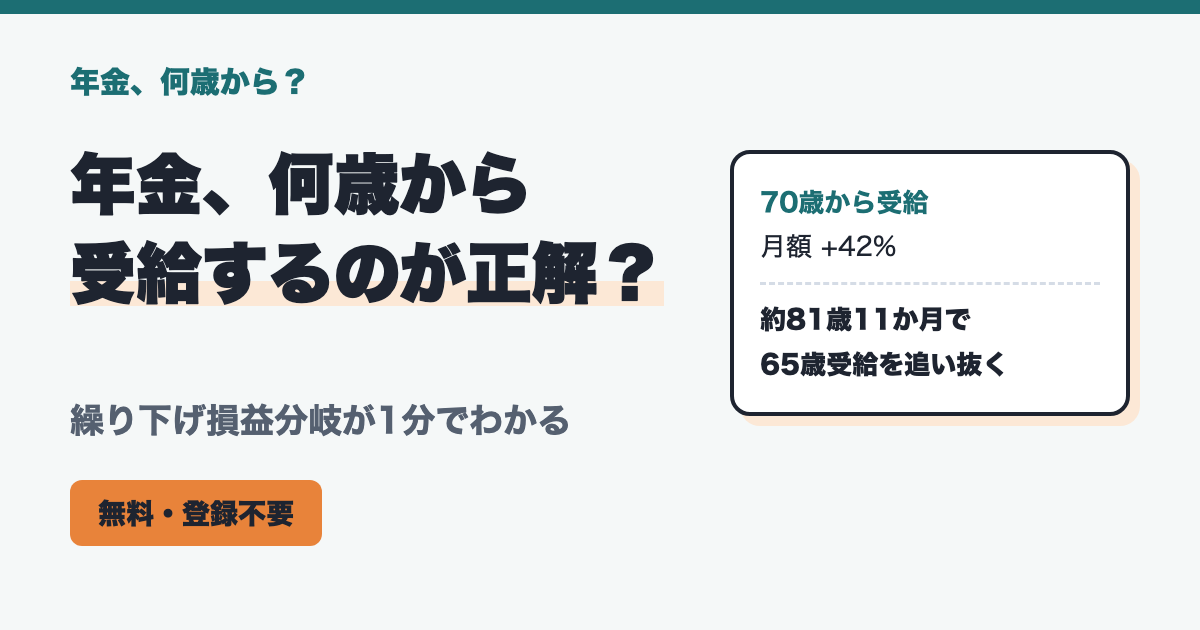
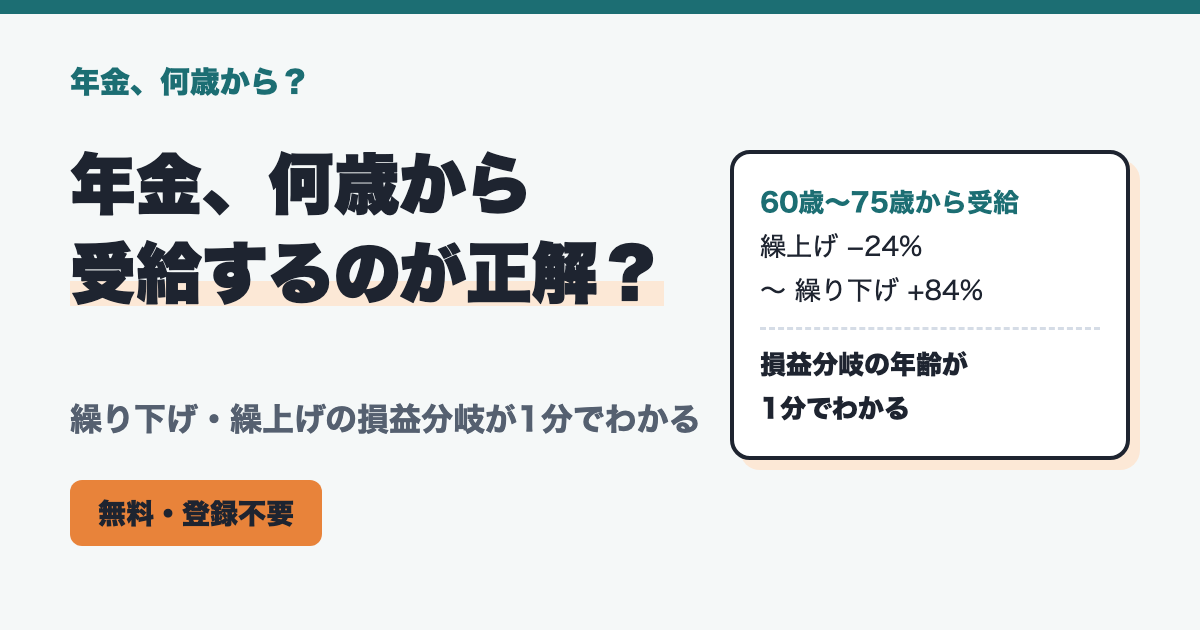
Add early pension (age 60/62/64) to nenkin-kuriage and drop Q3

Changed region(s): [[0.0617, 0.6333, 0.9558, 0.754], [0.6167, 0.3016, 0.8942, 0.6032], [0.6167, 0.3016, 0.6475, 0.3317]]

diff --git a/nenkin-kuriage/index.html b/nenkin-kuriage/index.html
@@ -14,20 +14,20 @@
 <meta name="viewport" content="width=device-width, initial-scale=1">
 <link rel="icon" type="image/png" href="../favicon.png">
 <link rel="apple-touch-icon" href="../favicon.png">
-<title>年金、何歳から？｜年金の繰り下げ損益分岐を3つの質問で1分シミュレーション（無料）</title>
-<meta name="description" content="年金月額の目安・受給開始年齢・比較パターンの3つに答えるだけで、繰り下げ後の月額と、65歳受給を追い抜く損益分岐年齢がその場でわかります。登録不要・無料。年金の請求・相談ではありません。">
+<title>年金、何歳から？｜年金の繰り下げ・繰上げ損益分岐を2つの質問で1分シミュレーション（無料）</title>
+<meta name="description" content="年金月額の目安と受給開始年齢（60〜75歳）の2つに答えるだけで、繰り下げ・繰上げ後の月額と、65歳受給との損益分岐年齢がその場でわかります。登録不要・無料。年金の請求・相談ではありません。">
 <meta property="og:type" content="website">
 <meta property="og:url" content="https://showcase.p1st.app/nenkin-kuriage/">
 <meta property="og:site_name" content="P1st Startup Showcase">
 <meta property="og:locale" content="ja_JP">
-<meta property="og:title" content="年金、何歳から？｜年金の繰り下げ損益分岐を3つの質問で1分シミュレーション（無料）">
-<meta property="og:description" content="年金月額の目安・受給開始年齢・比較パターンの3つに答えるだけで、繰り下げ後の月額と、65歳受給を追い抜く損益分岐年齢がその場でわかります。登録不要・無料。年金の請求・相談ではありません。">
+<meta property="og:title" content="年金、何歳から？｜年金の繰り下げ・繰上げ損益分岐を2つの質問で1分シミュレーション（無料）">
+<meta property="og:description" content="年金月額の目安と受給開始年齢（60〜75歳）の2つに答えるだけで、繰り下げ・繰上げ後の月額と、65歳受給との損益分岐年齢がその場でわかります。登録不要・無料。年金の請求・相談ではありません。">
 <meta property="og:image" content="https://showcase.p1st.app/og/nenkin-kuriage.png">
 <meta property="og:image:width" content="1200">
 <meta property="og:image:height" content="630">
 <meta name="twitter:card" content="summary_large_image">
-<meta name="twitter:title" content="年金、何歳から？｜年金の繰り下げ損益分岐を3つの質問で1分シミュレーション（無料）">
-<meta name="twitter:description" content="年金月額の目安・受給開始年齢・比較パターンの3つに答えるだけで、繰り下げ後の月額と、65歳受給を追い抜く損益分岐年齢がその場でわかります。登録不要・無料。年金の請求・相談ではありません。">
+<meta name="twitter:title" content="年金、何歳から？｜年金の繰り下げ・繰上げ損益分岐を2つの質問で1分シミュレーション（無料）">
+<meta name="twitter:description" content="年金月額の目安と受給開始年齢（60〜75歳）の2つに答えるだけで、繰り下げ・繰上げ後の月額と、65歳受給との損益分岐年齢がその場でわかります。登録不要・無料。年金の請求・相談ではありません。">
 <meta name="twitter:image" content="https://showcase.p1st.app/og/nenkin-kuriage.png">
 <link rel="preconnect" href="https://fonts.googleapis.com">
 <link rel="preconnect" href="https://fonts.gstatic.com" crossorigin>
@@ -228,6 +228,8 @@
   #survey-submit{width:100%;margin-top:6px}
   #survey-submit:disabled{opacity:.45;cursor:not-allowed;transform:none;box-shadow:0 4px 0 var(--violet-dark)}
   .survey-thanks{font-weight:700;color:var(--violet-dark);font-size:17px}
+  .choices.ages{grid-template-columns:1fr 1fr}
+  @media (max-width:820px){.choices.ages span{padding:13px 2px;font-size:15px}}
 </style>
 </head>
 <body>
@@ -247,15 +249,15 @@
     <div>
       <span class="eyebrow">無料の1分シミュレーション｜登録なしで結果が見られます</span>
       <h1>年金、何歳から<br><span class="u">受給するのが正解？</span><br>損益分岐が1分でわかる。</h1>
-      <p class="lead">年金月額の目安と受給開始年齢を選ぶと、繰り下げ後の月額と、65歳受給を追い抜く年齢（損益分岐）がその場に出ます。年金の請求・相談ではありません。</p>
+      <p class="lead">年金月額の目安と受給開始年齢を選ぶと、繰り下げ・繰上げ後の月額と、65歳受給との損益分岐年齢がその場に出ます。年金の請求・相談ではありません。</p>
       <a class="btn" href="#check">今すぐ無料で診断する</a>
       <span class="btn-note">診断は無料で、メールアドレスの入力も不要です。</span>
     </div>
     <div>
       <div class="report" aria-hidden="true">
         <div class="top">シミュレーション結果<small>回答にもとづいて表示（例）</small></div>
-        <div class="row"><b>1. 増額率</b>繰り下げ1か月ごとに +0.7%（最大 +84%）</div>
-        <div class="row"><b>2. 増額後の月額</b>月額 × （1 ＋ 増額率）</div>
+        <div class="row"><b>1. 増減率</b>繰り下げは1か月ごとに +0.7%（最大 +84%）、繰上げは −0.4%</div>
+        <div class="row"><b>2. 受給開始後の月額</b>月額 × （1 ± 増減率）</div>
         <div class="row"><b>3. 損益分岐年齢</b><span class="tag">70歳開始：約81歳11か月</span></div>
         <div class="row"><b>4. 累計受給額の比較</b>65歳受給と、年齢ごとに比べられます。</div>
       </div>
@@ -271,7 +273,7 @@
     <div class="scenes">
       <div class="scene"><p class="q">繰り下げると、いくら増えるのか</p><p>「最大84%増える」と聞いても、自分の年金だと月いくらになるのかが分からない。</p></div>
       <div class="scene"><p class="q">何歳まで生きれば得なのか</p><p>増えても、受け取り始めが遅くなる。結局どの年齢で元がとれるのか知りたい。</p></div>
-      <div class="scene"><p class="q">早くもらう手もあるのでは</p><p>60歳からの繰上げ受給とも比べて、自分に合うタイミングを考えたい。</p></div>
+      <div class="scene"><p class="q">早くもらう手もあるのでは</p><p>60・62・64歳からの繰上げ受給とも比べて、自分に合うタイミングを考えたい。</p></div>
     </div>
   </div>
 </section>
@@ -280,7 +282,7 @@
   <div class="wrap">
     <div class="card">
       <h2>1分診断（無料）</h2>
-      <p class="sub">3つの質問に答えると、その場で結果が表示されます。</p>
+      <p class="sub">2つの質問に答えると、その場で結果が表示されます。</p>
 
       <form id="check-form">
         <div class="field">
@@ -293,20 +295,16 @@
           </div>
         </div>
         <div class="field">
-          <label id="q-q_age-l">Q2　希望する受給開始年齢（繰り下げ年齢）は？</label>
-          <div class="choices three" role="radiogroup" aria-labelledby="q-q_age-l">
-            <label><input type="radio" name="q_age" value="66歳" required><span>66歳</span></label>
+          <label id="q-q_age-l">Q2　希望する受給開始年齢は？（60〜64歳は繰上げ、66歳〜は繰り下げ）</label>
+          <div class="choices ages" role="radiogroup" aria-labelledby="q-q_age-l">
+            <label><input type="radio" name="q_age" value="60歳（繰上げ）" required><span>60歳（繰上げ）</span></label>
+            <label><input type="radio" name="q_age" value="62歳（繰上げ）"><span>62歳（繰上げ）</span></label>
+            <label><input type="radio" name="q_age" value="64歳（繰上げ）"><span>64歳（繰上げ）</span></label>
+            <label><input type="radio" name="q_age" value="66歳"><span>66歳</span></label>
             <label><input type="radio" name="q_age" value="68歳"><span>68歳</span></label>
             <label><input type="radio" name="q_age" value="70歳"><span>70歳</span></label>
             <label><input type="radio" name="q_age" value="72歳"><span>72歳</span></label>
             <label><input type="radio" name="q_age" value="75歳（最大増額 +84%）"><span>75歳（最大増額 +84%）</span></label>
-          </div>
-        </div>
-        <div class="field">
-          <label id="q-q_compare-l">Q3　比較する受給パターンは？</label>
-          <div class="choices" role="radiogroup" aria-labelledby="q-q_compare-l">
-            <label><input type="radio" name="q_compare" value="65歳受給（標準）との比較のみ" required><span>65歳受給（標準）との比較のみ</span></label>
-            <label><input type="radio" name="q_compare" value="60歳繰上げ受給との比較も見る"><span>60歳繰上げ受給との比較も見る</span></label>
           </div>
         </div>
         <button type="submit" class="btn">診断結果を見る</button>
@@ -332,7 +330,6 @@
               <input type="hidden" name="source" id="source" value="direct">
               <input type="hidden" name="q_pension" id="h-pension">
               <input type="hidden" name="q_age" id="h-age">
-              <input type="hidden" name="q_compare" id="h-compare">
               <input type="hidden" name="result" id="h-result">
               <div class="field">
                 <label for="email">メールアドレス</label>
@@ -361,14 +358,14 @@
 
     <div class="trust">
       <p>本シミュレーションは概算の目安で、年金の請求・相談ではありません。</p>
-      <p>増額率は繰り下げ1か月あたり0.7％（日本年金機構）、繰上げは1か月あたり0.4％の減額（1962年4月2日以降生まれ）で計算しています。</p>
+      <p>増額率は繰り下げ1か月あたり0.7％、減額率は繰上げ1か月あたり0.4％（日本年金機構・1962年4月2日以降生まれ）で計算しています。</p>
     </div>
   </div>
 </section>
 
 <section class="disclaimer">
   <div class="wrap">
-    <p>本シミュレーションは日本年金機構の規定に基づく概算であり、実際の受給額は加入期間や報酬比例部分によって異なります。累計額は税・社会保険料を引く前の額で、物価や制度改正、加給年金・在職老齢年金・振替加算などの影響は考慮していません。年金請求や繰り下げの手続きにあたっては、お近くの年金事務所や街角の年金相談センターにご確認ください。</p>
+    <p>本シミュレーションは日本年金機構の規定に基づく概算であり、実際の受給額は加入期間や報酬比例部分によって異なります。累計額は税・社会保険料を引く前の額で、物価や制度改正、加給年金・在職老齢年金・振替加算などの影響は考慮していません。繰上げ受給をすると、障害年金・遺族年金など他の年金に影響する場合があります。繰上げ・繰り下げの減額率・増額率は1962年4月2日以降生まれの場合の値で計算しています。年金請求や繰り下げ・繰上げの手続きにあたっては、お近くの年金事務所や街角の年金相談センターにご確認ください。</p>
   </div>
 </section>
 

diff --git a/nenkin-kuriage/script.js b/nenkin-kuriage/script.js
@@ -1,4 +1,4 @@
-// 年金、何歳から？：3問の回答から繰り下げ後の月額と損益分岐年齢を表示し、チェックリストの案内（Formspree）を受け付ける
+// 年金、何歳から？：2問の回答から繰り下げ・繰上げ後の月額と損益分岐年齢を表示し、チェックリストの案内（Formspree）を受け付ける
 (function () {
   'use strict';
 
@@ -6,7 +6,6 @@
   var PENSION = { '月8万円（年96万円）': 8, '月12万円（年144万円）': 12, '月16万円（年192万円）': 16, '月20万円以上（年240万円〜）': 20 };
   var DEFER = 0.007;  // 繰り下げ：1か月あたり +0.7%（最大84%）
   var EARLY = 0.004;  // 繰上げ：1か月あたり -0.4%（1962年4月2日以降生まれ）
-  var EARLY_AGE = 60;
   var AGES = [60, 65, 70, 75, 80, 85];
 
   var form = document.getElementById('check-form');
@@ -35,29 +34,37 @@
   function render(a) {
     var m = PENSION[a.pension];
     var start = parseInt(a.age, 10);
-    var months = (start - 65) * 12;
-    var r = months * DEFER;
+    var early = start < 65;                        // 60・62・64歳は繰上げ、66歳〜は繰り下げ
+    var months = Math.abs(start - 65) * 12;
+    var r = early ? -months * EARLY : months * DEFER;   // 繰上げは負
     var newM = m * (1 + r);
     var be = breakeven(start, r);
-    var early = a.compare.indexOf('60歳') === 0;
+    var pct = Math.round(Math.abs(r) * 1000) / 10;
 
-    document.getElementById('r-big').innerHTML =
-      start + '歳から受給すると、毎月が<br>約' + man1(newM) + '<small>（65歳受給より +' + man1(newM - m) + '）</small>';
-    document.getElementById('r-msg').textContent =
-      '65歳受給の累計額を「約' + ageText(be) + '」で追い抜き、それより長生きするほど受給総額がおトクになります。' +
-      '一方、' + ageText(be) + 'より前に受給が終わる場合は、65歳受給のほうが多くなります。';
+    if (early) {
+      document.getElementById('r-big').innerHTML =
+        start + '歳から受給すると、毎月が<br>約' + man1(newM) + 'に減ります<small>（65歳受給より −' + man1(m - newM) + '）</small>';
+      document.getElementById('r-msg').textContent =
+        '早く受け取れる分、月額は一生' + pct + '％少なくなります。65歳受給の累計額が約' + ageText(be) + 'で追いつくため、それより長生きする場合は65歳受給のほうが受給総額は多くなります。' +
+        '一方、' + ageText(be) + 'より前に受給が終わる場合は、繰上げのほうが多くなります。';
+    } else {
+      document.getElementById('r-big').innerHTML =
+        start + '歳から受給すると、毎月が<br>約' + man1(newM) + '<small>（65歳受給より +' + man1(newM - m) + '）</small>';
+      document.getElementById('r-msg').textContent =
+        '65歳受給の累計額を「約' + ageText(be) + '」で追い抜き、それより長生きするほど受給総額がおトクになります。' +
+        '一方、' + ageText(be) + 'より前に受給が終わる場合は、65歳受給のほうが多くなります。';
+    }
 
     document.getElementById('r-rows').innerHTML =
-      '<li><span>増額率（' + months + 'か月 × 0.7％）</span><b>+' + (Math.round(r * 1000) / 10) + '％</b></li>' +
-      '<li><span>増額後の月額／年額</span><b>' + man1(newM) + ' ／ ' + man(newM * 12) + '</b></li>' +
-      '<li><span>損益分岐年齢（65歳受給を追い抜く年齢）</span><b>約' + ageText(be) + '</b></li>';
+      '<li><span>' + (early ? '減額率（' + months + 'か月 × 0.4％）' : '増額率（' + months + 'か月 × 0.7％）') + '</span><b>' + (early ? '−' : '+') + pct + '％</b></li>' +
+      '<li><span>' + (early ? '減額後' : '増額後') + 'の月額／年額</span><b>' + man1(newM) + ' ／ ' + man(newM * 12) + '</b></li>' +
+      '<li><span>損益分岐年齢（65歳受給と累計が入れ替わる年齢）</span><b>約' + ageText(be) + '</b></li>';
 
-    var rm = m * (1 - EARLY * (65 - EARLY_AGE) * 12);
-    var heads = ['65歳受給', start + '歳受給'].concat(early ? ['60歳繰上げ'] : []);
+    var heads = ['65歳受給', start + (early ? '歳繰上げ' : '歳受給')];
     var html = '<table class="r-cmp"><thead><tr><th>累計（万円）</th>' + heads.map(function (h) { return '<th>' + h + '</th>'; }).join('') + '</tr></thead><tbody>';
     var lines = [];
     AGES.forEach(function (age) {
-      var vals = [cum(m, 65, age), cum(newM, start, age)].concat(early ? [cum(rm, EARLY_AGE, age)] : []);
+      var vals = [cum(m, 65, age), cum(newM, start, age)];
       var best = Math.max.apply(null, vals);
       html += '<tr><td>' + age + '歳まで</td>' + vals.map(function (v) {
         return '<td' + (v > 0 && v === best ? ' class="win"' : '') + '>' + (v > 0 ? Math.round(v).toLocaleString() : '—') + '</td>';
@@ -68,28 +75,24 @@
     document.getElementById('r-table').innerHTML = html;
 
     summaryText = [
-      '【診断条件】65歳時点の年金月額：' + a.pension + '／受給開始年齢：' + a.age + '／比較：' + a.compare,
-      '【試算結果】' + start + '歳から受給すると毎月 約' + man1(newM) + '（増額率 +' + (Math.round(r * 1000) / 10) + '％）。65歳受給の累計を約' + ageText(be) + 'で追い抜きます。',
+      '【診断条件】65歳時点の年金月額：' + a.pension + '／受給開始年齢：' + a.age,
+      '【試算結果】' + start + '歳から受給すると毎月 約' + man1(newM) + '（' + (early ? '減額率 −' : '増額率 +') + pct + '％）。65歳受給との損益分岐は約' + ageText(be) + 'です。',
       '【年齢別・累計受給額（税・社会保険料を引く前）】'
     ].concat(lines).join('\n');
 
     var assume = '計算に使った値：65歳時点の月額 ' + m + '万円、受給開始 ' + start + '歳。色のついた数字がその年齢時点でいちばん多い受給パターンです。';
     if (a.pension.indexOf('20万円以上') !== -1) assume += '「月20万円以上」は20万円で計算しているため、実際はこれより高くなります。';
-    if (early) {
-      var beE = breakeven(EARLY_AGE, -EARLY * (65 - EARLY_AGE) * 12);
-      assume += '60歳繰上げは月額が' + Math.round((1 - EARLY * 60) * 100) + '％（月 約' + man1(rm) + '）になり、65歳受給が追い抜くのは約' + ageText(beE) + 'です。繰上げは一生減額され、取り消せません。';
-    }
+    if (early) assume += '繰上げは一生減額され、取り消せません。障害年金・遺族年金など他の年金に影響する場合もあります。';
     document.getElementById('r-assume').textContent = assume;
 
     document.getElementById('h-pension').value = a.pension;
     document.getElementById('h-age').value = a.age;
-    document.getElementById('h-compare').value = a.compare;
     document.getElementById('h-result').value = start + '歳開始：月' + man1(newM) + '／損益分岐 約' + ageText(be);
   }
 
   form.addEventListener('submit', function (e) {
     e.preventDefault();
-    var a = { pension: selected('q_pension'), age: selected('q_age'), compare: selected('q_compare') };
+    var a = { pension: selected('q_pension'), age: selected('q_age') };
     render(a);
     form.style.display = 'none';
     var r = document.getElementById('result');

diff --git a/index.html b/index.html
@@ -480,10 +480,10 @@ P1st <span>Startup</span> Showcase
 <div class="service-icon" style="background: #1C6E731A;">
 <svg xmlns="http://www.w3.org/2000/svg" width="48" height="48" viewBox="0 0 32 32" fill="none" stroke="#1C6E73" stroke-width="2.6" stroke-linecap="round" stroke-linejoin="round"><circle cx="16" cy="16" r="11"/><path d="M11 10l5 7 5-7M16 17v7M12 19h8M12 22h8" stroke="#E8833A"/></svg>
 </div>
-<h3 class="service-title">年金、何歳から？ — 年金の繰り下げ損益分岐を、3つの質問で1分シミュレーション。</h3>
-<p class="service-desc">年金月額の目安と受給開始年齢を選ぶだけで、繰り下げ後の月額と、65歳受給を追い抜く損益分岐年齢がその場に表示されます。無料・登録不要。</p>
+<h3 class="service-title">年金、何歳から？ — 年金の繰り下げ・繰上げ損益分岐を、2つの質問で1分シミュレーション。</h3>
+<p class="service-desc">年金月額の目安と受給開始年齢（60〜75歳）を選ぶだけで、繰り下げ・繰上げ後の月額と、65歳受給との損益分岐年齢がその場に表示されます。無料・登録不要。</p>
 <div class="service-meta">
-<span>質問は3つだけ</span>
+<span>質問は2つだけ</span>
 <span>損益分岐年齢がわかる</span>
 <span>無料・登録不要</span>
 </div>
